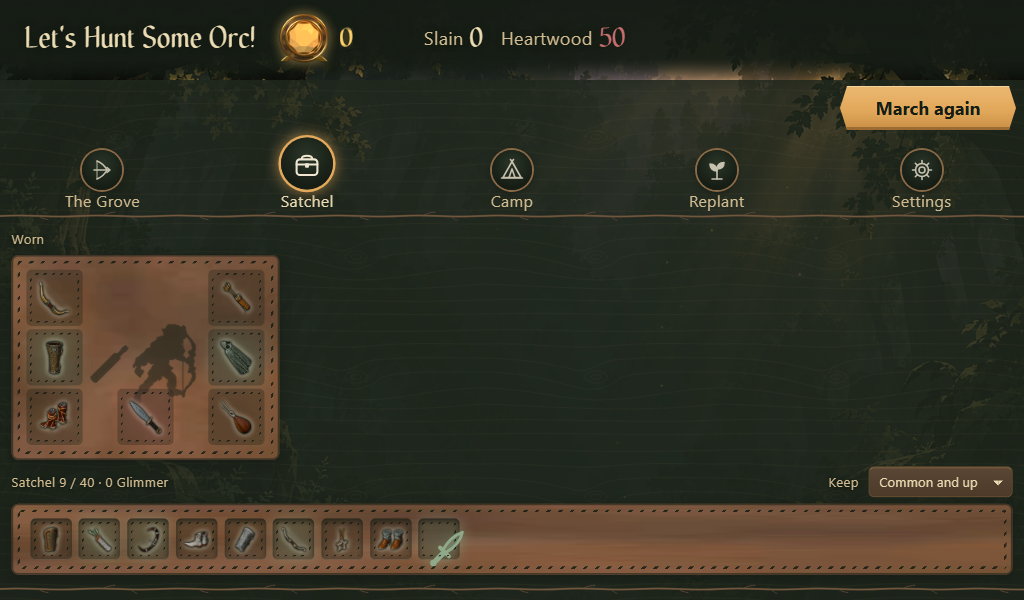
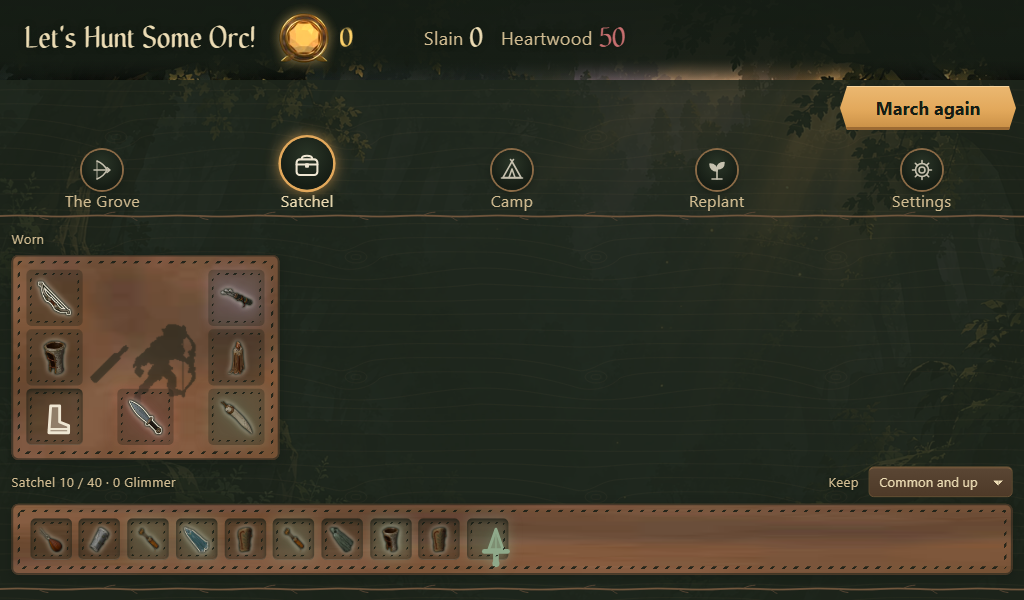
sim: dagger slot review fixes, bolder dagger glyph, slot-odds docs, fixed capture loadout (TB-225)

diff --git a/src/ui/glyphs.ts b/src/ui/glyphs.ts
@@ -9,7 +9,7 @@ const GLYPH: Record<Slot, string> = {
   bracer: '<path d="M6 7h12l1 2v6l-1 2H6l-1-2V9z" fill="currentColor" opacity=".35"/><path d="M6 7h12l1 2v6l-1 2H6l-1-2V9z" fill="none" stroke-width="1.6"/><path d="M9 7v10m6-10v10" stroke-width="1.2"/>',
   cloak: '<circle cx="12" cy="6" r="3" fill="none" stroke-width="1.6"/><path d="M9 8L5 20h14L15 8" fill="currentColor" opacity=".35"/><path d="M9 8L5 20h14L15 8" fill="none" stroke-width="1.6"/>',
   boots: '<path d="M8 4h5v9l5 2v4H7z" fill="currentColor" opacity=".35"/><path d="M8 4h5v9l5 2v4H7z" fill="none" stroke-width="1.6"/><path d="M7 17h11" stroke-width="1.2"/>',
-  dagger: '<path d="M20.5 3.5C16 5 12 9 9.5 13.5l1.5 1.5c4.5-2.5 8.5-6.5 9.5-11.5z" fill="currentColor" opacity=".35"/><path d="M20.5 3.5C16 5 12 9 9.5 13.5l1.5 1.5c4.5-2.5 8.5-6.5 9.5-11.5z" fill="none" stroke-width="1.6"/><path d="M8 12l5 5" fill="none" stroke-width="2.2"/><path d="M9.5 15.5L5.5 19.5" fill="none" stroke-width="3"/><circle cx="4.3" cy="20.7" r="1.3" fill="currentColor" stroke-width="1"/>',
+  dagger: '<path d="M12 1.8L16 13.2H8z" fill="currentColor" opacity=".6"/><path d="M12 1.8L16 13.2H8z" fill="none" stroke-width="1.6" stroke-linejoin="round"/><path d="M12 5v8" stroke-width="1" opacity=".8"/><path d="M5.5 14.2h13" fill="none" stroke-width="2.6" stroke-linecap="round"/><path d="M12 15.5v4" fill="none" stroke-width="3.2"/><circle cx="12" cy="21" r="1.5" fill="currentColor" stroke-width="1"/>',
   charm: '<path d="M6 3l6 7 6-7" fill="none" stroke-width="1.2"/><path d="M12 10l5 5-5 6-5-6z" fill="currentColor" opacity=".35"/><path d="M12 10l5 5-5 6-5-6z" fill="none" stroke-width="1.6"/>',
 };
 

diff --git a/src/ui/satchel.ts b/src/ui/satchel.ts
@@ -1,4 +1,4 @@
-/** Satchel tab (TB-095): the six worn slots, the satchel grid, and the selected item compared with what is worn. */
+/** Satchel tab (TB-095): the seven worn slots, the satchel grid, and the selected item compared with what is worn. */
 import { Item, RARITIES, Rarity, SLOTS, Slot } from '../data/loot';
 import { AFFIXES, BASES, MYTHICS, SETS } from '../data/lootTables';
 import { STR } from '../data/strings';

diff --git a/docs/ART-STYLE.md b/docs/ART-STYLE.md
@@ -104,7 +104,7 @@ The plain reads as natural, calm grassland, not a flat board. Layout is seeded (
 - Game HUD (TB-195b, numbers in `HUD`): the wall bar fill eases on the spring over 380 ms, tone grove > 50 % > amber > 25 % > rose (rose throbs); the carved bar swaps to its cracked pieces (`wallbar-crack1/2/3`, TB-195h) at 75/50/25 %, and the lit `wallbar-fill` is clipped by width, never stretched; the gem and the wave banner are the `gem` and `banner` pieces, the banner reading WAVE and its number on one line; a hit shakes the bar up to 0.35 rem for 220 ms. The starlight gem pops and sprinkles a small burst on gains; its odometer digits roll 380 ms. A wave clear slams a CLEARED stamp from 2.4x in 260 ms onto the hanging wave banner, holds 1.1 s, fades 400 ms. Reduced motion: no shake, roll, slam or sparkle.
 - Tooltip plates (TB-195c, `src/ui/plate.ts`, numbers in `PLATE`): hovering a tree node floats the carved `plate` piece (9-slice 40 px) 1.25 rem below-right of the cursor, flipped to stay on screen; a new node springs it in (120 ms pop). It shows name and rank, then up to 3 changed stats as big *now → next* digits (next in `grove` if better, `rose` if worse), one italic line of flavour, and the cost as a gem chip. The detail card keeps one line of prose. Reduced motion: no pop.
 - Tab tokens (TB-195d, numbers in `--tok*` on `:root`): each panel tab wears its carved token (`token-bow` tree, `token-satchel`, `token-seed` replant, `token-cog` settings) 2.4 rem above the label, dimmed until chosen; the chosen token springs forward (scale 1.3, raised 0.25 rem, amber glow) in 220 ms on easeOutBack and its pane fades in while rising 0.75 rem. They replace the active-tab sprout. Reduced motion: no spring, no rise.
-- Satchel as an object (TB-195e, numbers in `--sat-*`/`--pocket-*` on `:root` and `SATCHEL_UI`): the bag and the worn row are stitched leather (`satchel` piece, 32 px edges repeating, its leather centre scaled under the middle so no tiles show); the six worn slots are sewn pockets (`pocket` piece) in one row, icon and slot name only. Dragging gear from the bag lights its pocket amber (dashed edge, glow); dropping it there wears it, the pocket snaps (scale 1.18 to 0.94 to 1 in 260 ms) and flashes its rarity with the equip cue. Hovering a bag item shows two plates side by side, the item and what is worn in its slot, with the power difference in green or rose. Reduced motion: no snap or swell.
+- Satchel as an object (TB-195e, numbers in `--sat-*`/`--pocket-*` on `:root` and `SATCHEL_UI`): the bag and the worn row are stitched leather (`satchel` piece, 32 px edges repeating, its leather centre scaled under the middle so no tiles show); the seven worn slots (the dagger joined at TB-225) are sewn pockets (`pocket` piece) in one row, icon and slot name only. Dragging gear from the bag lights its pocket amber (dashed edge, glow); dropping it there wears it, the pocket snaps (scale 1.18 to 0.94 to 1 in 260 ms) and flashes its rarity with the equip cue. Hovering a bag item shows two plates side by side, the item and what is worn in its slot, with the power difference in green or rose. Reduced motion: no snap or swell.
 - Satchel v2 (TB-195j, numbers in `--doll-*`/`--bag-pocket` on `:root`): one frame per item. Each item is a single sewn pocket; its rarity is the pocket glow (none for common); no text under icons, the name lives only in the hover plate. Worn gear is a paper doll: seven pockets around an elf silhouette (`doll` piece, a mask of the game-angle elf sprite until a front-view doll exists), bow, bracer and boots left, quiver, cloak and charm right, and the dagger (TB-225) centred under the doll at the belt. A dragged item makes its socket pulse amber; the bag is a loose grid of pockets. Reduced motion: no pulse or lift.
 - Satchel page layout (TB-206c, landscape PC >= 861 px wide): two bands. Top: the doll in a frame cut to its own width (`max-content`), the picked item's card (rows 1-2, level with the Worn label) and the worn Sets list (card and Sets share the rest as `--card-fr` : 1). Below them the bag's own bar (count, Keep filter), then the bag across the full width, `--bag-cols` (20) pockets a row at `--bag-pocket` 4rem (80 px at the 20 px root): a full 40-item bag is two rows and never scrolls; an 80-item Deep Satchel is four rows and the page fit scales. 80 px is the largest pocket that keeps a 40-item bag at fit 1: the 115 px pocket (`--bag-cols` 15, 5.75rem) measured fit 0.841 at 1080p (pockets render 97 px, smallest text 16.8 px), so it was rejected. The card keeps name over rarity line (a mythic with a `kind` reads `Knife (Bow slot)`); worn affixes and their Reroll pills sit in two shared columns (subgrid) so the pills line up; other affixes run in two columns; Wear, Lock, Heirloom and Salvage are full buttons (`--card-btn-h`) in one left-aligned row. Card text and Sets tiers use `text-wrap: balance`, so a wrapped line never ends on a one- or two-word tail (measured: last line at least 30% of the longest). Set tiers are full-opacity body text, met amber and unmet parchment, one hang-indented line per tier. At 720p (height <= 800 px, 16 px root) the doll, bag and card icon shrink (`--doll-pocket` 4.25rem, `--bag-pocket` 3.25rem). All sizes are `--bag-*`, `--card-*`, `--setl-*`, `--narrow-*` tokens scoped to `.prestige.satchel`, not the page root.
   Measured fit scale (one run, item picked; `data-fit="narrow"` pane is the scroll case): 1920x1080 worn / full bag / worn item picked / mythic picked = 1.000 (smallest text 20 px), Deep Satchel (80 items) = 0.855 (17.1 px); 1280x720 same four states = 1.000 (16 px, pockets 50 px), Deep = 0.878 (14.1 px); the fit has no pixel slack, so a fitted page never scrolls (measured overflow 0 px in every desktop state). Reroll rows are `--card-row-gap` apart (0.5rem, 0.375rem at 720p). Captures: `previews/tb-206-satchel-fit/r19/`. The picked-item card has a constant minimum height (`--card-min-h`, 18rem; 16rem at 720p) so the doll, count and bag do not move between states (measured identical rects). In the narrow portrait layout the doll's frame spans the full column width like the other panels, the doll centred in it. A picked item's own set block is shown in its card only when that set is not worn (a worn set is already in the Sets column). Every card icon wears one frame (2px, rarity colour), stat rows are flush left, and the bag pockets are 3.125rem at 720p (50 px) so the Deep Satchel fits at 14 px text or more.

diff --git a/docs/GDD.md b/docs/GDD.md
@@ -126,7 +126,7 @@ All companion damage scales with Kinship (×1.4/rank, TB-184 set F). Kinship als
 - **Saving (TB-195m):** the game autosaves; there is no Save button. Wipe save sits in Settings and needs a second press.
 - **Battle report (TB-195f):** the fallen overlay tallies the run (wave, slain, minutes, starlight/min, best wave) and the Heartwood carried back, then stamps a seal; Replant stays the only run action.
 - **Satchel as an object (TB-195e):** gear is dragged from the leather bag onto its sewn pocket to wear it (the Wear button still works); hovering bag gear shows it and the worn piece as two plates side by side.
-- **Satchel v2 (TB-195j):** worn gear sits on a paper doll (six sockets around the elf, plus the dagger at the belt: The Last Knife is a Dagger, not a bow, TB-225); every item is one pocket whose glow shows its rarity, with its name only on hover.
+- **Satchel v2 (TB-195j):** worn gear sits on a paper doll (six sockets around the elf, plus the dagger at the belt: The Last Knife is a Dagger, not a bow, TB-225; each of the seven slots is 1/7 of drops and sets never roll on the dagger, BALANCE.md "Gear slot odds"); every item is one pocket whose glow shows its rarity, with its name only on hover.
 - **Field:** 15:8 canvas. Top-left: barricade health bar (timber → amber → rose as it drops) with numbers, and vanguard count once Muster is owned. Bottom: wave timer bar. Toast at top. Every kept item drop (TB-192) stands a light pillar in its rarity colour on the field, taller by rarity, with a banner under the toast (icon, rarity, name) and its rarity chime; legendary and mythic also shake and flash the field, and the Satchel tab counts the new items until it is opened. Fallen overlay covers the field when the wall is down.
 - **Boss bar** under the field: the *Summon the boss wave* button (waiting count, then a countdown and orcs left while it runs).
 - **Pages (TB-136):** `body[data-mode]` is `run` (the field fills the screen under the header, which shows the stats and a Settings button), `camp` (after a fall: the Grove page, tabs The Grove / Satchel / Replant / Settings, *March again*) or `settings` (an overlay over the field, *Back to the field*). The field and panels run edge to edge with no frame (TB-207); buttons are carved plaques (ART-STYLE §UI wood).

diff --git a/docs/BALANCE.md b/docs/BALANCE.md
@@ -98,6 +98,9 @@ cap = 2 + ranks        mend = 0.03 × mend × maxhp per second
 ### Prestige
 - Forced on barricade fall; voluntary from wave 12. A fall or voluntary replant pays `PRESTIGE.fallGain` = 0 HW (TB-171, director 2 Nov). All Heartwood drops from cleared boss waves: `bossHw(w) = 3 × max(1, floor(w / 25))` (P-142; the Heartwood Splinter halving retired with TB-128).
 
+### Gear slot odds (TB-225)
+Seven worn slots (`SLOTS`): bow, quiver, bracer, cloak, boots, charm, dagger. A non-mythic drop picks one of 28 bases uniformly (`BASES`, four per slot), so each slot is 4/28 = 1/7 (about 14.3%) of drops, down from 1/6 (16.7%) for the six original slots; the dagger (Bone Knife, Flint Dagger, Bronze Dirk, Silver Stiletto) takes that 1/7. A mythic picks a base in its own slot, so The Last Knife is always a dagger. Sets stay six pieces: a legendary set roll that lands on a dagger base is re-picked among the other 24 bases (`rollDrop`), so a set piece never occupies the dagger slot and set odds per slot are unchanged in shape. No rarity weight, affix range or pity number changed.
+
 ### Gear affix wiring (TB-201)
 Worn affixes are summed per stat across items (`gearTotals`), then applied once in `applyGear`. Roll ranges are in `AFFIXES` (lootTables.ts), unchanged. The eleven lines below were rolled but read by nothing before TB-201:
 - Talons `hawkDmg`, Roots `treantDmg`: that unit's damage × (1 + sum).

diff --git a/docs/ITCH-PAGE.md b/docs/ITCH-PAGE.md
@@ -26,7 +26,7 @@ The store page for **https://veniceissinking.itch.io/elves-vs-orcs**. This file 
 > - A branching skill tree of bow, companions, armoury, barricade, vanguard and spoils nodes
 > - Three specialisation paths (Serpent, Fox, Magpie), each with its own nodes, set and mythic
 > - An elf encampment behind the wall to build up between runs
-> - Loot drops for six gear slots, from Common to Mythic
+> - Loot drops for seven gear slots, from Common to Mythic
 > - Heartwood prestige tree, spent only between runs
 > - Saves in your browser; export and import from Settings
 >
